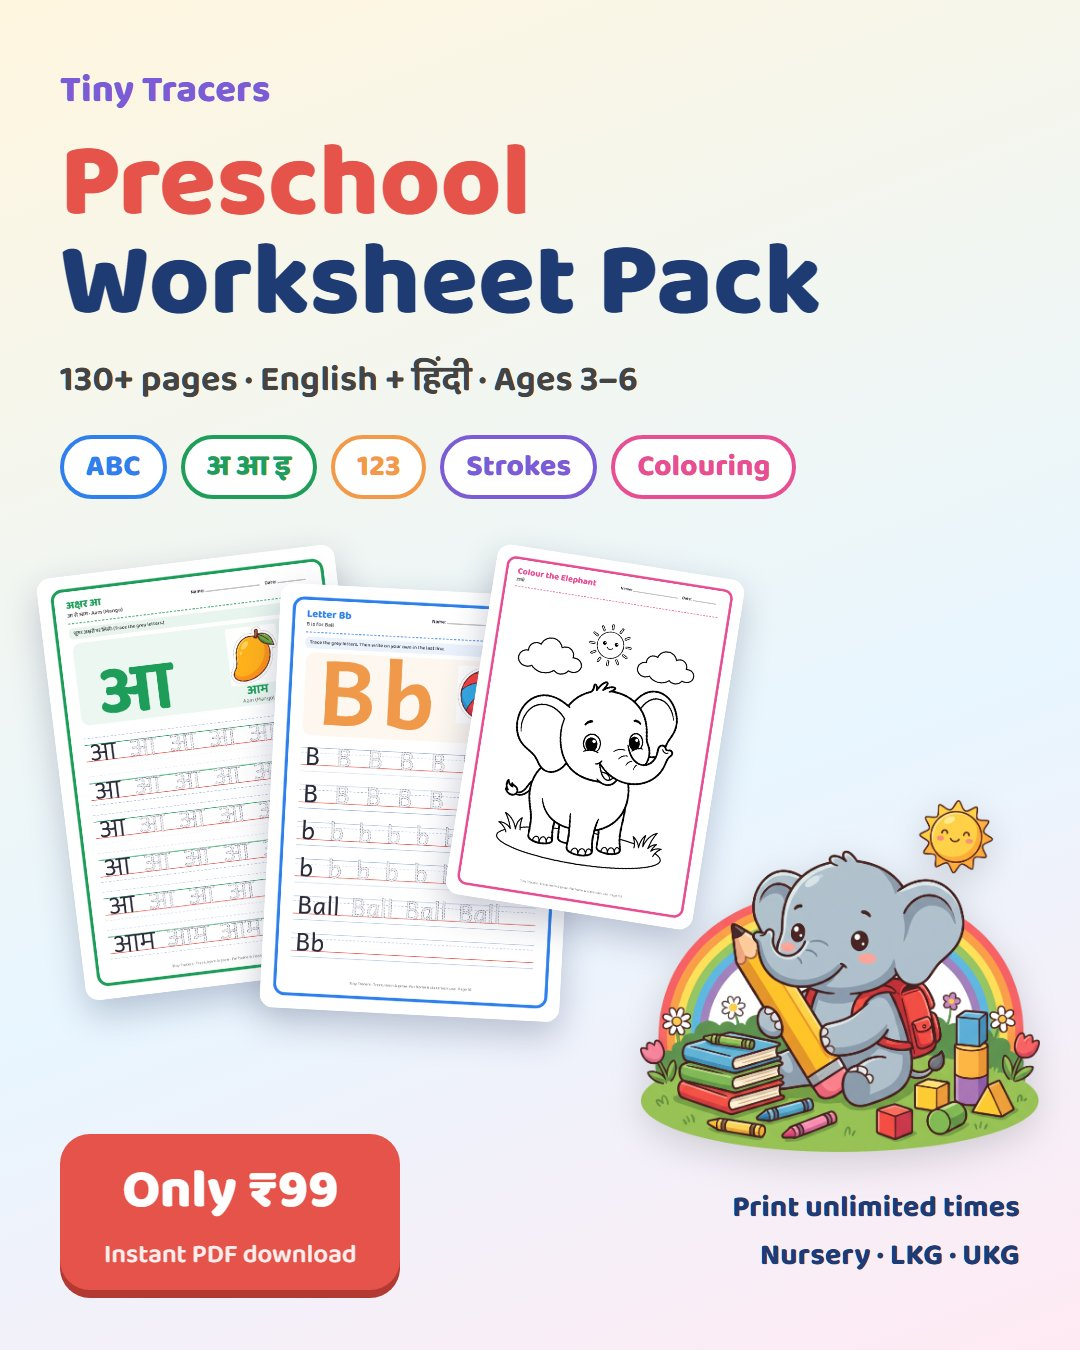
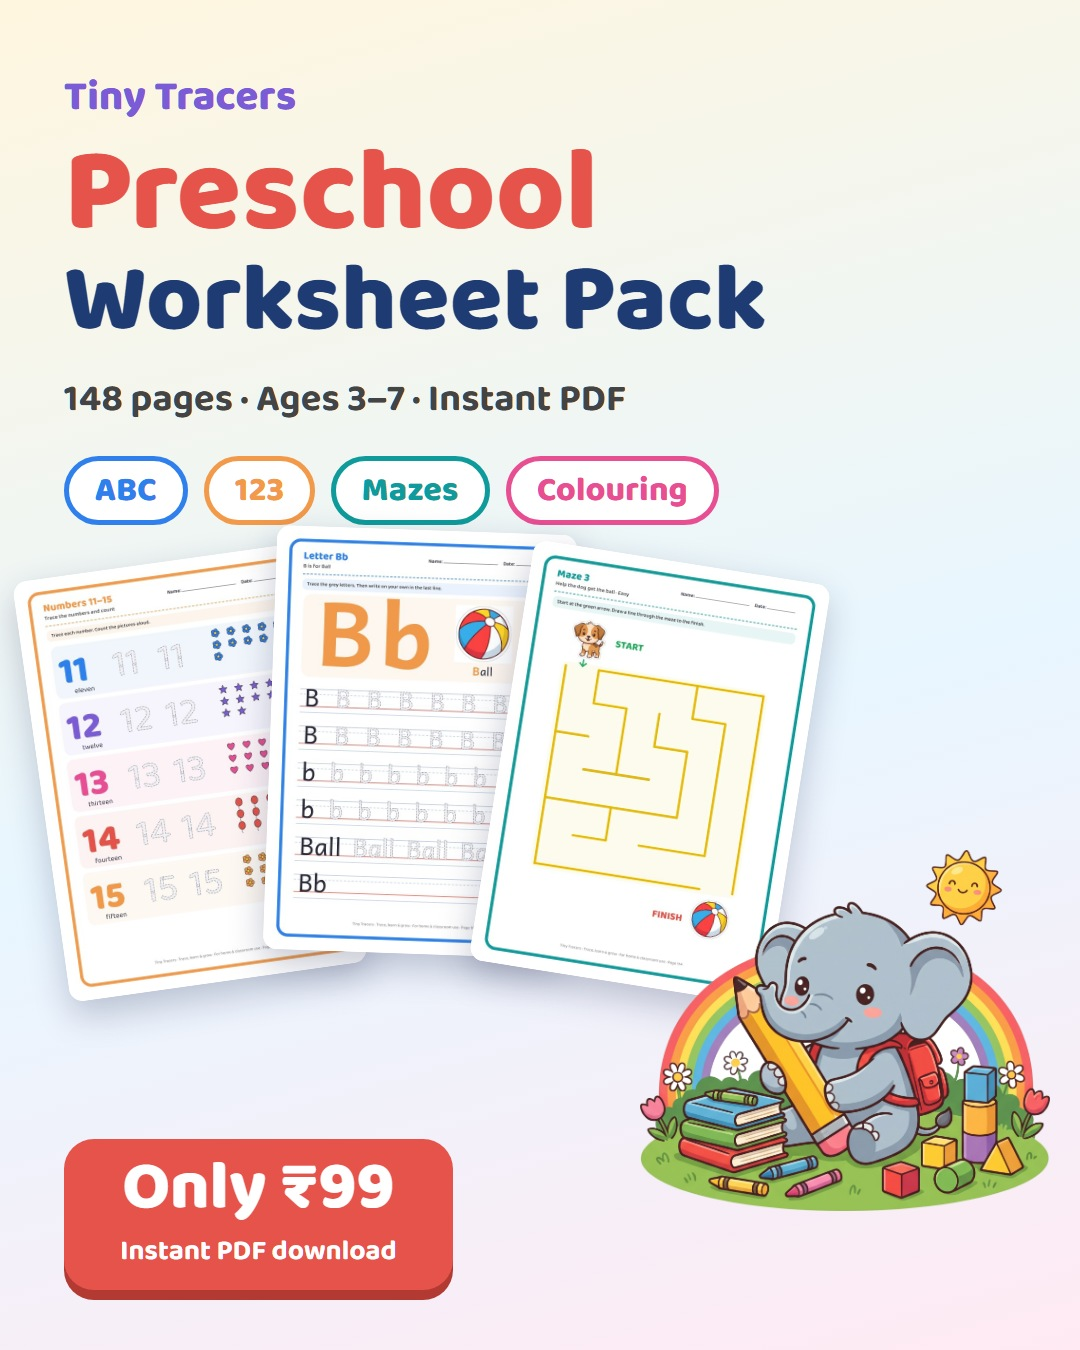
Tiny Tracers: drop Hindi from the sales page and share card
Marketing now focuses on ABC, numbers, mazes and colouring; the Hindi
pages stay in the PDF but are no longer advertised.

Changed region(s): [[0.0, 0.0311, 0.9778, 0.9333], [0.0306, 0.84, 0.4278, 0.9644]]

diff --git a/tiny-tracers/index.html b/tiny-tracers/index.html
@@ -3,13 +3,13 @@
 <head>
 <meta charset="utf-8">
 <meta name="viewport" content="width=device-width, initial-scale=1">
-<title>Tiny Tracers – Preschool Worksheet Pack (English + Hindi)</title>
-<meta name="description" content="148 printable preschool worksheets for ages 3–7: tracing, English alphabet, Hindi varnamala, numbers 1–20, mazes, puzzles and colouring. Instant PDF download, ₹99.">
+<title>Tiny Tracers – Printable Preschool Worksheet Pack</title>
+<meta name="description" content="148 printable preschool worksheets for ages 3–7: tracing, ABC alphabet, numbers 1–20, mazes, puzzles and colouring. Instant PDF download, ₹99.">
 <link rel="canonical" href="https://sudeha.in/tiny-tracers/">
 <link rel="icon" href="assets/icon-256.png">
 <meta property="og:type" content="product">
 <meta property="og:title" content="Tiny Tracers – Preschool Worksheet Pack">
-<meta property="og:description" content="148 printable worksheets for ages 3–7. English + हिंदी, numbers, tracing, mazes and colouring. Instant PDF, ₹99.">
+<meta property="og:description" content="148 printable worksheets for ages 3–7. ABC, numbers, tracing, mazes and colouring. Instant PDF, ₹99.">
 <meta property="og:image" content="https://sudeha.in/tiny-tracers/assets/social-card.jpg">
 <meta property="og:url" content="https://sudeha.in/tiny-tracers/">
 <style>
@@ -122,11 +122,11 @@ document.addEventListener('click',function(e){var a=e.target.closest&&e.target.c
   <section class="hero">
     <div class="copy">
       <div class="brand">Tiny Tracers</div>
-      <h1><span class="r">Preschool</span> worksheet pack <span class="g">English</span> + <span class="o">हिंदी</span></h1>
-      <p class="lead">148 printable pages for ages 3–7: tracing, ABC, Hindi varnamala, numbers, mazes, puzzles and colouring.</p>
-      <p class="hinglish">Ghar pe print karo, baar-baar use karo ✏</p>
+      <h1><span class="r">Preschool</span> worksheets your child will <span class="g">love</span></h1>
+      <p class="lead">148 printable pages for ages 3–7: pencil control, ABC tracing, numbers, mazes, puzzles and colouring.</p>
+      <p class="hinglish">Print at home and use again and again ✏</p>
       <ul class="chips">
-        <li style="--c:var(--blue)">ABC</li><li style="--c:var(--green)">अ आ इ</li><li style="--c:var(--orange)">1 2 3</li>
+        <li style="--c:var(--blue)">ABC</li><li style="--c:var(--orange)">1 2 3</li><li style="--c:var(--purple)">Strokes</li>
         <li style="--c:var(--teal)">Mazes</li><li style="--c:var(--pink)">Colouring</li>
       </ul>
       <div class="price"><b>₹99</b><span>for all 148 pages · under ₹1 a page</span></div>
@@ -138,7 +138,7 @@ document.addEventListener('click',function(e){var a=e.target.closest&&e.target.c
       </ul>
     </div>
     <div class="fan" aria-label="Sample pages from the pack">
-      <img class="a" src="assets/p-hindi.jpg" width="662" height="936" alt="Hindi letter tracing page">
+      <img class="a" src="assets/p-numbers.jpg" width="662" height="936" alt="Number tracing page">
       <img class="b" src="assets/p-letter.jpg" width="662" height="936" alt="English letter tracing page">
       <img class="c" src="assets/p-maze.jpg" width="662" height="937" alt="Maze worksheet">
       <img class="m" src="assets/mascot.png" width="700" height="615" alt="">
@@ -147,7 +147,7 @@ document.addEventListener('click',function(e){var a=e.target.closest&&e.target.c
 
   <div class="stats">
     <div style="--c:var(--purple)"><b>148</b><span>A4 pages</span></div>
-    <div style="--c:var(--green)"><b>2</b><span>languages</span></div>
+    <div style="--c:var(--green)"><b>16</b><span>mazes &amp; puzzles</span></div>
     <div style="--c:var(--orange)"><b>3–7</b><span>years</span></div>
     <div style="--c:var(--red)"><b>∞</b><span>prints at home</span></div>
   </div>
@@ -156,26 +156,24 @@ document.addEventListener('click',function(e){var a=e.target.closest&&e.target.c
   <p class="sub">Real pages from the pack. Tap any page to see it bigger.</p>
   <div class="shots">
     <figure><a href="assets/p-letter.jpg"><img src="assets/p-letter.jpg" width="662" height="936" alt="English letter tracing page" loading="lazy"></a><figcaption>Letter tracing</figcaption></figure>
-    <figure><a href="assets/p-hindi.jpg"><img src="assets/p-hindi.jpg" width="662" height="936" alt="Hindi letter tracing page" loading="lazy"></a><figcaption>Hindi tracing</figcaption></figure>
+    <figure><a href="assets/p-chart.jpg"><img src="assets/p-chart.jpg" width="662" height="936" alt="Alphabet chart" loading="lazy"></a><figcaption>Alphabet chart</figcaption></figure>
     <figure><a href="assets/p-numbers.jpg"><img src="assets/p-numbers.jpg" width="662" height="936" alt="Number tracing and counting page" loading="lazy"></a><figcaption>Numbers &amp; counting</figcaption></figure>
     <figure><a href="assets/p-strokes.jpg"><img src="assets/p-strokes.jpg" width="662" height="936" alt="Pre-writing strokes page" loading="lazy"></a><figcaption>Pencil control</figcaption></figure>
     <figure><a href="assets/p-maze.jpg"><img src="assets/p-maze.jpg" width="662" height="937" alt="Maze worksheet" loading="lazy"></a><figcaption>Mazes</figcaption></figure>
     <figure><a href="assets/p-shadow.jpg"><img src="assets/p-shadow.jpg" width="662" height="937" alt="Find the shadow puzzle" loading="lazy"></a><figcaption>Find the shadow</figcaption></figure>
     <figure><a href="assets/p-jigsaw.jpg"><img src="assets/p-jigsaw.jpg" width="662" height="937" alt="Cut and paste jigsaw" loading="lazy"></a><figcaption>Cut &amp; paste jigsaw</figcaption></figure>
-    <figure><a href="assets/p-fruits.jpg"><img src="assets/p-fruits.jpg" width="662" height="936" alt="Fruits vocabulary page in English and Hindi" loading="lazy"></a><figcaption>Fruits · फल</figcaption></figure>
     <figure><a href="assets/p-colour.jpg"><img src="assets/p-colour.jpg" width="662" height="936" alt="Colouring page" loading="lazy"></a><figcaption>Colouring</figcaption></figure>
     <figure><a href="assets/p-cert.jpg"><img src="assets/p-cert.jpg" width="662" height="937" alt="Certificate of completion" loading="lazy"></a><figcaption>Certificate</figcaption></figure>
   </div>
 
   <h2>What’s inside</h2>
   <div class="grid">
-    <div class="card" style="--c:var(--purple)"><h3>✏ Pre-writing &amp; shapes · 5 pages</h3><p>Lines, waves, curves, loops, circles and shapes to build pencil control.</p></div>
-    <div class="card" style="--c:var(--blue)"><h3>🔤 English alphabet · 37 pages</h3><p>A–Z chart, a tracing page for every letter with a picture, matching, missing letters and picture games.</p></div>
-    <div class="card" style="--c:var(--green)"><h3>📖 Hindi varnamala · 53 pages</h3><p>स्वर and व्यंजन charts and a tracing page for every letter, अ to ज्ञ, with pictures and shirorekha guides.</p></div>
-    <div class="card" style="--c:var(--orange)"><h3>🔢 Numbers · 10 pages</h3><p>Trace 1–20, count &amp; circle, missing numbers and a 1–100 chart.</p></div>
-    <div class="card" style="--c:var(--pink)"><h3>🍎 Fruits &amp; animals · 4 pages</h3><p>Picture words in English and Hindi with word tracing.</p></div>
-    <div class="card" style="--c:var(--teal)"><h3>🧩 Mazes &amp; puzzles · 16 pages</h3><p>8 mazes from easy to tricky, odd one out, find the shadow, what comes next, and cut &amp; paste jigsaws.</p></div>
-    <div class="card" style="--c:var(--red)"><h3>🎨 Colouring · 20 pages</h3><p>Elephant, peacock, lion, dinosaur, train, rocket, Diwali diya and more, with big simple outlines.</p></div>
+    <div class="card" style="--c:var(--purple)"><h3>✏ Pre-writing &amp; shapes</h3><p>Lines, waves, curves, loops, circles and shapes to build pencil control.</p></div>
+    <div class="card" style="--c:var(--blue)"><h3>🔤 English alphabet</h3><p>A–Z chart, a tracing page for every letter with a picture, matching, missing letters and picture games.</p></div>
+    <div class="card" style="--c:var(--orange)"><h3>🔢 Numbers</h3><p>Trace 1–20, count &amp; circle, missing numbers and a 1–100 chart.</p></div>
+    <div class="card" style="--c:var(--pink)"><h3>🍎 Fruits &amp; animals</h3><p>Picture words with word tracing.</p></div>
+    <div class="card" style="--c:var(--teal)"><h3>🧩 Mazes &amp; puzzles</h3><p>8 mazes from easy to tricky, odd one out, find the shadow, what comes next, and cut &amp; paste jigsaws.</p></div>
+    <div class="card" style="--c:var(--red)"><h3>🎨 Colouring</h3><p>Elephant, peacock, lion, dinosaur, train, rocket, Diwali diya and more, with big simple outlines.</p></div>
   </div>
 
   <h2>Why parents like it</h2>
@@ -184,7 +182,7 @@ document.addEventListener('click',function(e){var a=e.target.closest&&e.target.c
     <li>Instant PDF download. Nothing is shipped, nothing to wait for.</li>
     <li>Print on any home printer (A4), in colour or black &amp; white</li>
     <li>Print as many times as you like for your family</li>
-    <li>English and Hindi in one pack, for Nursery, LKG, UKG and Class 1</li>
+    <li>Good for Nursery, LKG, UKG and Class 1 practice at home</li>
   </ul>
 
   <div class="promise">
@@ -208,7 +206,7 @@ document.addEventListener('click',function(e){var a=e.target.closest&&e.target.c
 
   <div class="cta">
     <p style="margin:0 0 6px;font-size:1.2rem;font-weight:700">Give your child a happy head start, one page at a time.</p>
-    <p style="margin:0 0 16px;color:var(--muted)">148 pages · English + हिंदी · Instant PDF</p>
+    <p style="margin:0 0 16px;color:var(--muted)">148 pages · Ages 3–7 · Instant PDF</p>
     <a class="buy" href="https://rzp.io/rzp/tinytracers">Buy now – ₹99 <small>Instant PDF download</small></a>
   </div>
 </main>
